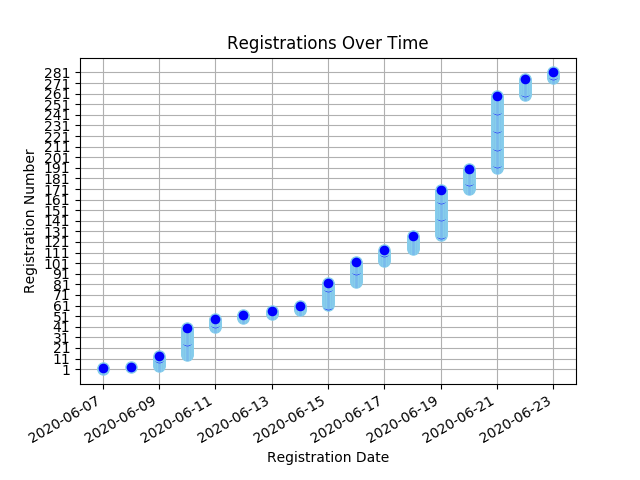
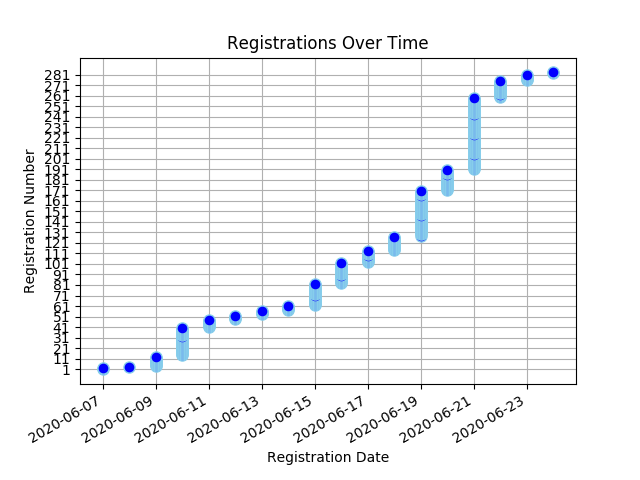
Registree stats backup on Wed Jun 24 12:46:24 SAST 2020

Changed region(s): [[0.0625, 0.125, 0.9062, 0.7812], [0.125, 0.8125, 0.875, 0.9375], [0.0625, 0.7188, 0.0938, 0.75]]

diff --git a/content/virtual_conf_stats/_index.md b/content/virtual_conf_stats/_index.md
@@ -16,7 +16,7 @@ draft: false
 </head>
 <body>
 <h1 style="color: #000000;">Virtual Convention Registration Stats</h1>
-<ul><li><strong>Number of Registrees</strong>: 281</li>
+<ul><li><strong>Number of Registrees</strong>: 283</li>
 </ul><a href="/docs/virtual_convention_stats.csv">Download registration details here</a>
 <h2>Registrees</h2>
 <table id="registreeTable" class="tablesorter" border="1" padding=1>
@@ -113,6 +113,7 @@ Club
 <tr><td>Hess, Dorothy</td><td>Kuilsriver</td></tr>
 <tr><td>Higgins, Wendy</td><td>Wilro Park</td></tr>
 <tr><td>Hobbs, Avril</td><td>North Durban</td></tr>
+<tr><td>Hobbs, Grant</td><td>North Durban</td></tr>
 <tr><td>HOBBS, TREVOR</td><td>North Durban</td></tr>
 <tr><td>Hocking, Cliff</td><td>Midrand 410E</td></tr>
 <tr><td>Hocking, Jacqui</td><td>Midrand</td></tr>
@@ -294,6 +295,7 @@ Club
 <tr><td>van Wyk, Lindie</td><td>Pretoria Jakaranda</td></tr>
 <tr><td>van Wyk, Vicki</td><td>North Durban</td></tr>
 <tr><td>Voges, Tinus</td><td>Alberton</td></tr>
+<tr><td>Volker, Russell</td><td>King Williams Town</td></tr>
 <tr><td>von der Decken, Brian</td><td>King William's Town</td></tr>
 <tr><td>von Mollendorf, Rinette</td><td>Durbanville</td></tr>
 <tr><td>Vorster, Rochelle</td><td>Sedgefield</td></tr>
